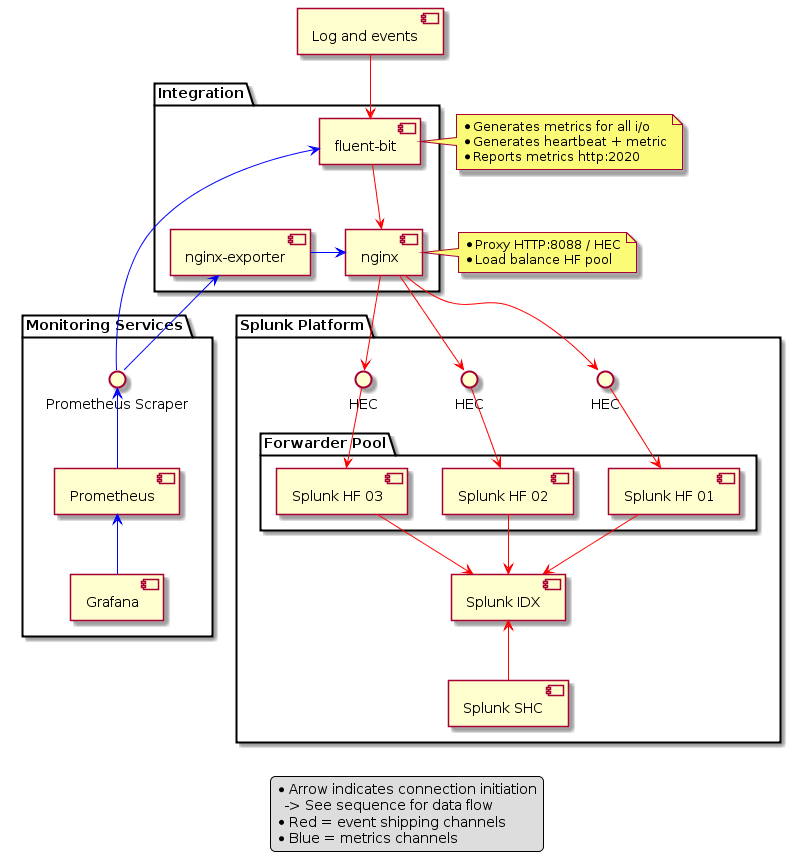
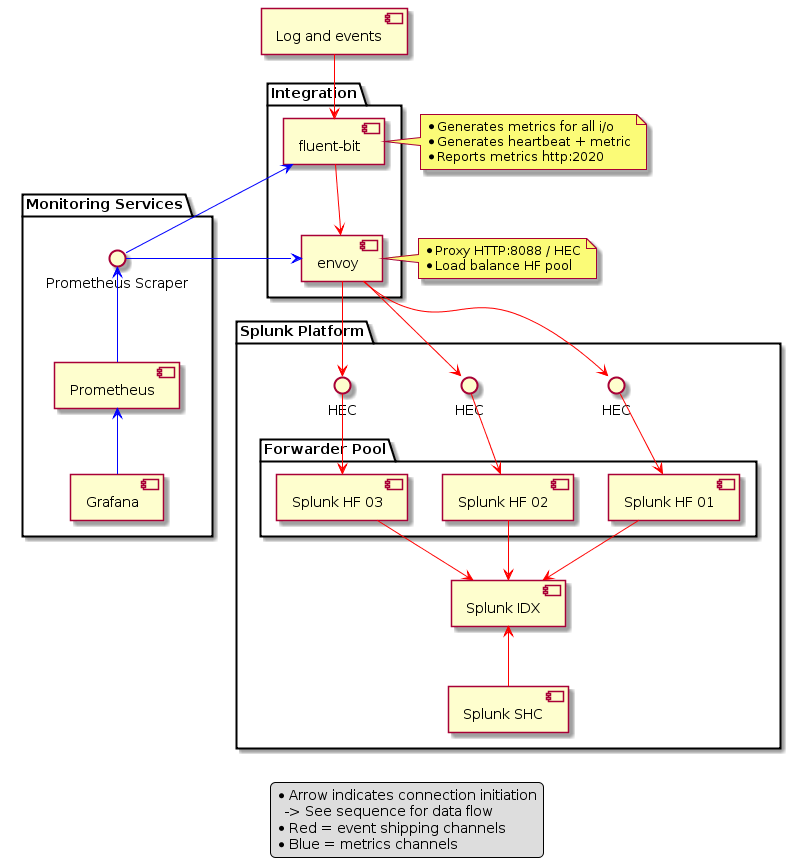
feat: Switch nginx to envoy

diff --git a/README.md b/README.md
@@ -19,7 +19,7 @@ To bring down and clean up the containers run,
 
  - Backpressure-sensitive heartbeat
  - Transport to remote Splunk platform over HTTP
- - Prometheus metrics for fluent-bit, nginx and splunkforwarder
+ - Prometheus metrics for fluent-bit, envoy and splunkforwarder
  - Grafana dashboards
 
 ## UI   
@@ -29,6 +29,7 @@ To bring down and clean up the containers run,
 | Splunk UI      | [http://localhost:8000/](http://localhost:8000/) | admin     | admin    |
 | Prometheus     | [http://localhost:9090/](http://localhost:9090/) | admin     | admin    |
 | Grafana        | [http://localhost:3000/](http://localhost:3030/) | admin     | admin    |
+| Envoy          | [http://localhost:8001/](http://localhost:8001/) |           |          |
 
 ## Composition
 
@@ -39,8 +40,7 @@ This docker-compose image uses,
  - [A public, official fluentbit image](https://hub.docker.com/r/fluent/fluent-bit/)
  - [A public, official prometheus image](https://hub.docker.com/r/prom/prometheus)
  - [A public, official grafana image](https://hub.docker.com/r/grafana/grafana)
- - [A public, official nginx image](https://hub.docker.com/_/nginx)
- - [A public, official nginx-prometheus-exporter image](https://hub.docker.com/r/nginxinc/nginx-prometheus-exporter)
+ - [A public, official envoy image](https://hub.docker.com/r/envoyproxy/envoy-alpine)
 
 ### Components
 
